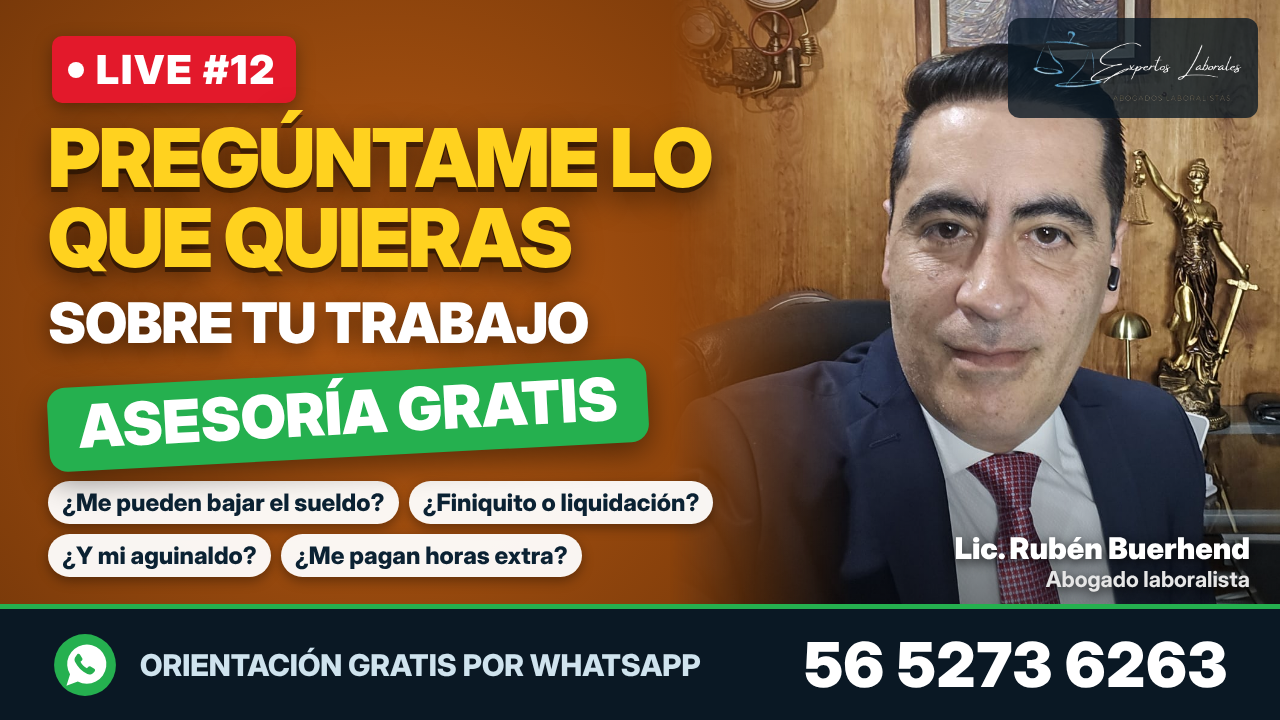
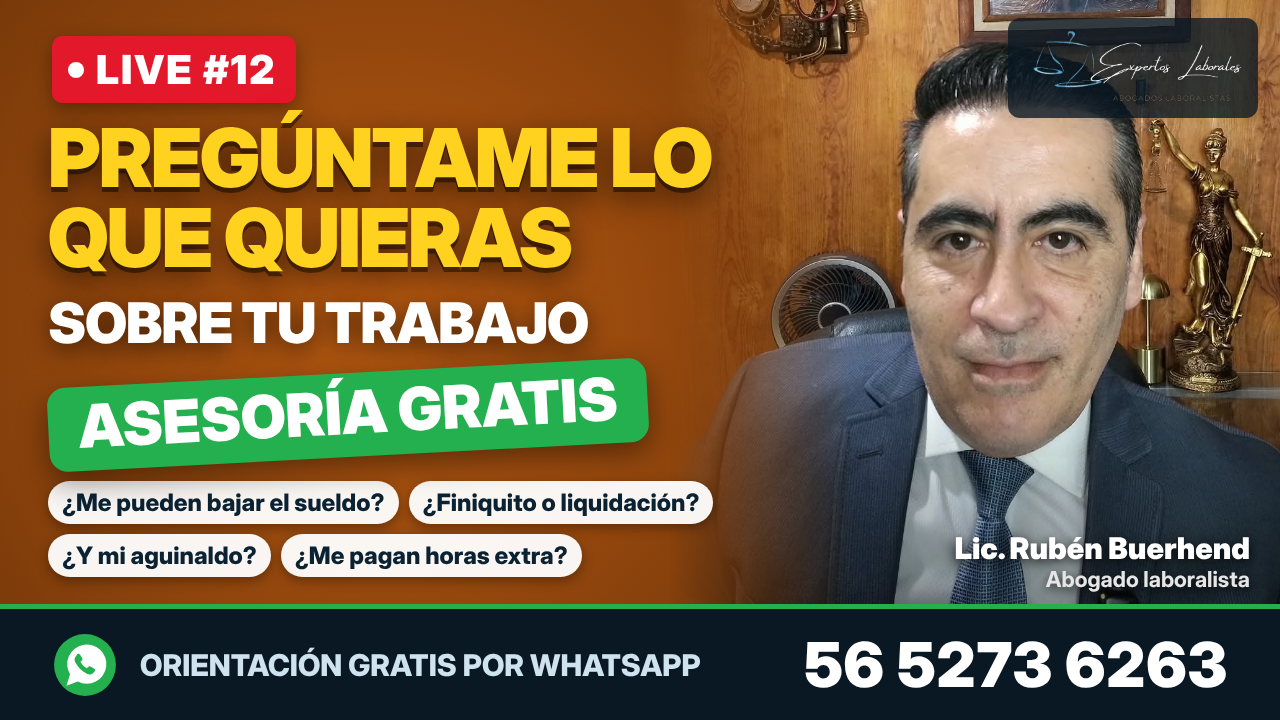
Miniatura LIVE #12 con foto gris en sentido original
Claude-Session: https://claude.ai/code/session_01C3deJav44xscTHSyeunJhm

Changed region(s): [[0.5312, 0.0, 1.0, 0.8556]]

diff --git a/marketing/miniaturas/generar_serie_lives.js b/marketing/miniaturas/generar_serie_lives.js
@@ -8,7 +8,7 @@ const S=process.argv[2]||__dirname;
 const FOTOS={
   negro:{src:'../fotos/ruben_traje_negro.jpg',w:671,l:-60,t:-215},
   azul:{src:'../fotos/ruben_traje_azul.jpg',w:628,l:-12,t:-199},
-  gris:{src:'../fotos/ruben_selfie_traje_gris_derecha.jpg',w:744,l:-26,t:-264},
+  gris:{src:'../fotos/ruben_selfie_traje_gris.jpg',w:744,l:-26,t:-264},
   selfie:{src:'../fotos/ruben_selfie_cerca_derecha.jpg',w:832,l:-192,t:-264,tapaDerecha:true},
 };
 const COLORES=[['#1f4e6b','#143650','#0b2233'],['#7a1a22','#4a0d14','#24060a'],['#17704a','#0e4a31','#062417'],['#5b3391','#3a1f63','#1b0d31'],['#b85a12','#7a3a0a','#331804'],['#126b78','#0b4650','#042226']];

diff --git a/CLAUDE.md b/CLAUDE.md
@@ -99,7 +99,7 @@ documento $49 / curso $299) → se volvieron juicio.
   el usuario avisa cada vez que sube un video -> correr
   `cd marketing/miniaturas && node generar_serie_lives.js "$(pwd)" N`,
   mandarle `live_N.png`, y anotar el video en `registro.json` ("video").**
-  Entregadas #1-#15 (el usuario tenía ~15 lives listos para subir). Foto nueva 'gris' (selfie traje gris-azul, corbata azul, `ruben_selfie_traje_gris_derecha.jpg`, 18 nov 2026, pedido del usuario) -- la #11 se rehízo con ella. El generador elige los componentes MENOS usados y evita repetir color/foto/frase/preguntas con los 2 lives anteriores (la 1a versión solo alternaba azul/rojo, corregido).
+  Entregadas #1-#15 (el usuario tenía ~15 lives listos para subir). Foto nueva 'gris' (selfie traje gris-azul, corbata azul, `ruben_selfie_traje_gris_derecha.jpg`, 18 nov 2026, pedido del usuario) -- la #11 se rehízo con ella (versión volteada); desde la #12 el usuario la pidió en el sentido ORIGINAL de la cámara (`ruben_selfie_traje_gris.jpg`) porque la volteada se le veía rara -- por eso redibujar la #11 hoy ya no sale idéntica. El generador elige los componentes MENOS usados y evita repetir color/foto/frase/preguntas con los 2 lives anteriores (la 1a versión solo alternaba azul/rojo, corregido).
 - **Métricas de redes** (YouTube/TikTok): `marketing/metricas_redes.md`,
   punto de partida 16 nov 2026 (YouTube @rubenbuerhend: 24 suscriptores, 3
   videos; TikTok: 104.1K seguidores). Agregar fila con cada captura nueva

diff --git a/marketing/miniaturas/registro.md b/marketing/miniaturas/registro.md
@@ -15,7 +15,7 @@ Cada combinación (color + frase + preguntas + foto) se usa una sola vez.
 | 9 | Verde | PREGÚNTAME LO QUE QUIERAS | Juego 3 | azul | 2026-11-16 | (pendiente) |
 | 10 | Morado | ¿PROBLEMAS EN TU TRABAJO? | Juego 1 | selfie | 2026-11-16 | (pendiente) |
 | 11 | Turquesa | TUS DUDAS LABORALES | Juego 2 | gris | 2026-11-16 | (pendiente) |
-| 12 | Naranja | PREGÚNTAME LO QUE QUIERAS | Juego 3 | azul | 2026-11-16 | (pendiente) |
+| 12 | Naranja | PREGÚNTAME LO QUE QUIERAS | Juego 3 | gris | 2026-11-16 | (pendiente) |
 | 13 | Rojo | ¿PROBLEMAS EN TU TRABAJO? | Juego 1 | selfie | 2026-11-16 | (pendiente) |
 | 14 | Azul | TUS DUDAS LABORALES | Juego 2 | negro | 2026-11-16 | (pendiente) |
 | 15 | Morado | PREGÚNTAME LO QUE QUIERAS | Juego 3 | azul | 2026-11-16 | (pendiente) |
